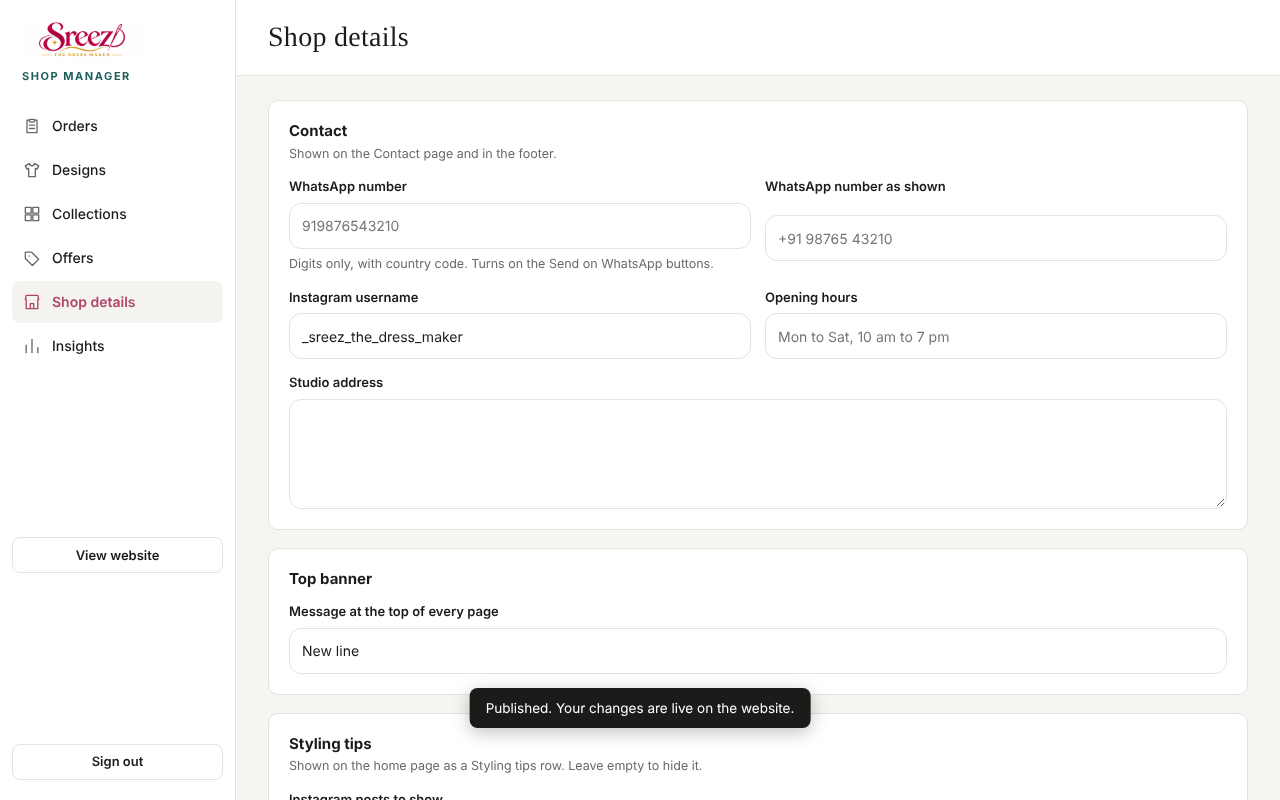
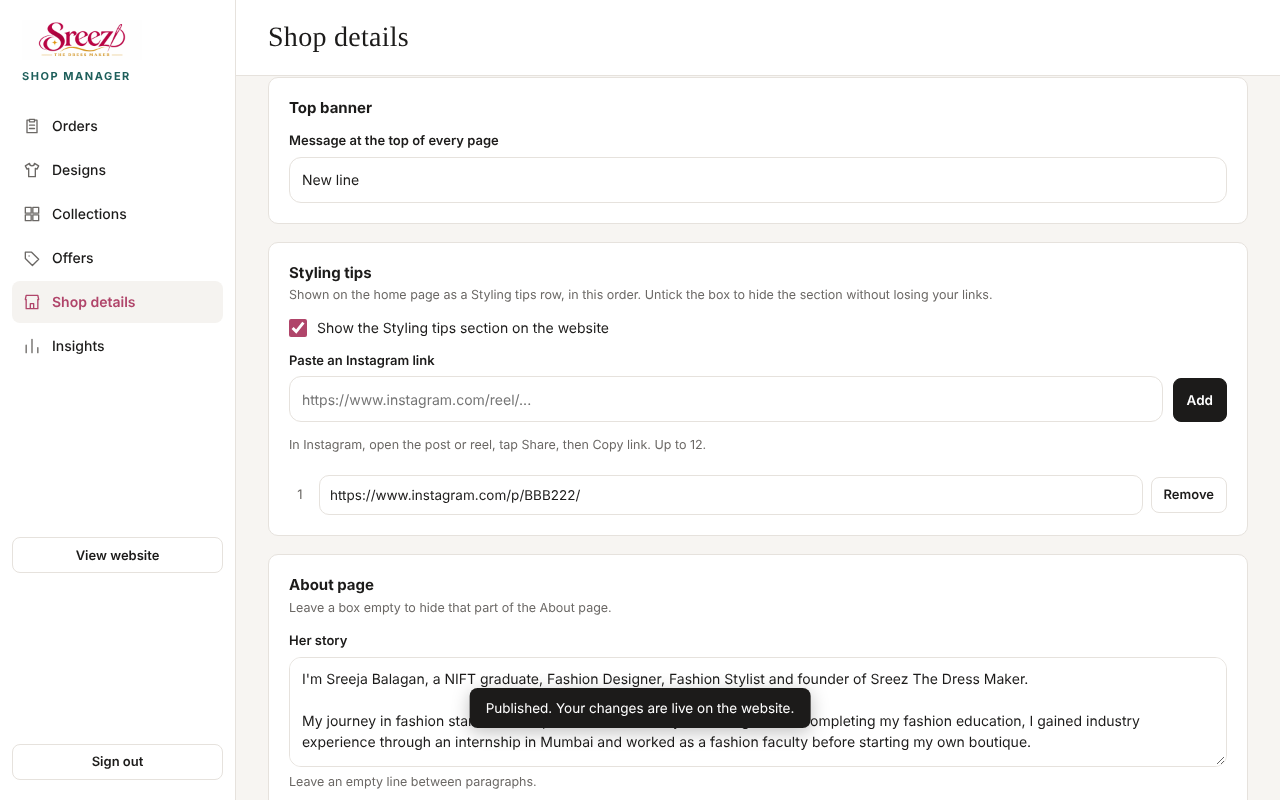
Styling tips: one box per link and an on/off switch
The manager now has a single box to paste an Instagram link with an Add
button, a numbered list with Remove buttons, and a tick box that hides
or shows the section without losing the links.

Claude-Session: https://claude.ai/code/session_016YqyoZpa2w2rLnWAeS1J5m

diff --git a/public/app.js b/public/app.js
@@ -35,7 +35,7 @@ const pcoll=p=>p.c.map(coll).find(Boolean);
 const OFFERS=()=>DATA.offers.filter(o=>o.active!==false);
 /* styling tips: Instagram posts and reels the owner picked, shown with Instagram's own embed player */
 const tipList=()=>(Array.isArray(SITE.tips)?SITE.tips:[]).map(u=>{ const m=String(u).match(/instagram\.com\/(?:[\w.]+\/)?(p|reel|reels|tv)\/([\w-]+)/i); return m?{kind:m[1].toLowerCase()==='p'?'p':'reel',code:m[2]}:null; }).filter(Boolean).slice(0,12);
-const tipsHTML=()=>{ const t=tipList(); if(!t.length) return isAdmin?`<section><div class="head"><h2>Styling tips</h2></div><p class="lede">${todo('to add')} Paste links to your Instagram posts in Manage shop, Shop details, Styling tips.</p></section>`:'';
+const tipsHTML=()=>{ if(SITE.tipsOn===false) return ''; const t=tipList(); if(!t.length) return isAdmin?`<section><div class="head"><h2>Styling tips</h2></div><p class="lede">${todo('to add')} Paste links to your Instagram posts in Manage shop, Shop details, Styling tips.</p></section>`:'';
   return `<section><div class="head"><h2>Styling tips</h2><a href="${igUrl()}" rel="noopener">Follow on Instagram</a></div><p class="lede">Ideas from Sreeja on what to wear and how to style it.</p>
     <div class="prow tips">${t.map(x=>`<div class="tip"><iframe src="https://www.instagram.com/${x.kind}/${x.code}/embed/" title="Styling tip from Sreez on Instagram" loading="lazy" allowtransparency="true" allowfullscreen scrolling="no"></iframe><a href="https://www.instagram.com/${x.kind}/${x.code}/" rel="noopener">Open on Instagram</a></div>`).join('')}</div></section>`; };
 const igUrl=()=>'https://www.instagram.com/'+SITE.ig, igDm=()=>'https://ig.me/m/'+SITE.ig;
@@ -493,7 +493,10 @@ offers(){ const n=DATA.offers.length;
 shop(){ bo=SITE; return {title:'Shop details',body:`
   ${pn('Contact',`<div class="fgrid">${fld('WhatsApp number','wa',{ph:'919876543210',hint:'Digits only, with country code. Turns on the Send on WhatsApp buttons.'})}${fld('WhatsApp number as shown','waShow',{ph:'+91 98765 43210'})}${fld('Instagram username','ig')}${fld('Opening hours','hours',{ph:'Mon to Sat, 10 am to 7 pm'})}${fld('Studio address','address',{area:1})}</div>`,'Shown on the Contact page and in the footer.')}
   ${pn('Top banner',`<div class="fgrid">${fld('Message at the top of every page','announce',{full:1})}</div>`)}
-  ${pn('Styling tips',`<div class="fgrid">${fld('Instagram posts to show','tips',{area:1,t:'lines',ph:'https://www.instagram.com/reel/...',hint:'One link per line, newest first, up to 12. In Instagram, open the post or reel, tap Share, then Copy link.'})}</div>`,'Shown on the home page as a Styling tips row. Leave empty to hide it.')}
+  ${pn('Styling tips',`<label class="check"><input type="checkbox" data-k="tipsOn" data-t="bool"${SITE.tipsOn!==false?' checked':''}>Show the Styling tips section on the website</label>
+    <div class="tipadd"><div class="field"><label for="tipNew">Paste an Instagram link</label><input id="tipNew" inputmode="url" placeholder="https://www.instagram.com/reel/..."></div><button class="btn sm" data-a="tip-add">Add</button></div>
+    <span class="hint">In Instagram, open the post or reel, tap Share, then Copy link. Up to 12.</span>
+    ${(SITE.tips||[]).length?`<div class="tiplist">${SITE.tips.map((u,i)=>`<div class="tiprow"><span class="tipno">${i+1}</span><input data-tip="${i}" value="${esc(u)}" aria-label="Instagram link ${i+1}"><button class="mini" data-a="tip-rm" data-v="${i}">Remove</button></div>`).join('')}</div>`:'<p class="tempty">No posts added yet.</p>'}`,'Shown on the home page as a Styling tips row, in this order. Untick the box to hide the section without losing your links.')}
   ${pn('About page',`<div class="fgrid">${fld('Her story','story',{area:1,hint:'Leave an empty line between paragraphs.'})}${fld('Quote shown under the story','quote',{area:1})}${fld('Specialities','specialities',{area:1,t:'lines',hint:'One speciality per line.'})}${fld('My USP','usp',{area:1})}${fld('My vision','vision',{area:1})}<div class="field"><label>Portrait photo</label>${onePhoto('portrait')}<span class="hint">The large photo on the About and home pages.</span></div><div class="field"><label>Small round photo</label>${onePhoto('avatar')}<span class="hint">Her face, shown beside each design and on the custom order note. Uses the portrait if empty.</span></div></div>`,'Leave a box empty to hide that part of the About page.')}
   ${pn('Ordering',`<div class="fgrid">${fld('Usual stitching time (days)','leadDays',{t:'num',ph:'For example 10',hint:'Shown on every design, in the cart and at checkout. A design can have its own time in Designs.'})}${fld('UPI ID for payments','upi',{ph:'For example name@okhdfcbank',hint:'Turns on the payment step at checkout, with a QR code and a pay button.'})}${fld('Name shown to the payer','upiName',{ph:'Sreez The Dress Maker'})}${fld('Advance to collect (%)','advancePct',{t:'num',ph:'50',hint:'Share of the order total asked at checkout. Use 100 for full payment. Empty means 50.'})}${fld('Payment','payment',{area:1,ph:'Payment methods and advance'})}${fld('Order alert key','notifyKey',{ph:'Access key from web3forms.com',hint:'Emails you each time an order is placed on the website. Get a free access key at web3forms.com with the email that should receive the alerts, and paste it here.'})}${fld('WhatsApp alert number','waAlertTo',{ph:'919876543210',hint:'Digits only, with country code. The WhatsApp number that gets a message for each order.'})}${fld('WhatsApp alert key','waAlertKey',{ph:'Key from CallMeBot',hint:'From that WhatsApp number, message the CallMeBot bot to get a key (steps at callmebot.com), and paste it here.'})}</div>`,'What customers are told when they buy. Payment is asked only when every design in the cart has a price.')}
   ${pn('Help page',`<div class="fgrid">${fld('Size chart','sizeChart',{area:1,ph:'S: bust 34, waist 28, hip 36 ...'})}${fld('Delivery','delivery',{area:1,ph:'Stitching time, shipping areas and charges'})}${fld('Alterations and returns','alterations',{area:1})}</div>`)}
@@ -582,6 +585,12 @@ async function adminAct(a,v,el){
   else if(a==='new-order'){ const o=newOrder(); o.items.push({pid:'',name:'',size:'',price:0}); aEdit={kind:'order',obj:o}; }
   else if(a==='add-item') aEdit.obj.items.push({pid:'',name:'',size:'',price:0});
   else if(a==='rm-item') aEdit.obj.items.splice(+v,1);
+  else if(a==='tip-add'){ const u=$('tipNew').value.trim(); if(!Array.isArray(SITE.tips)) SITE.tips=[];
+    if(!/instagram\.com\/(?:[\w.]+\/)?(p|reel|reels|tv)\/[\w-]+/i.test(u)) return toast('That is not an Instagram post or reel link. Copy the link from the Share menu of the post.');
+    if(SITE.tips.length>=12) return toast('You can show up to 12 posts. Remove one first.');
+    if(SITE.tips.includes(u)) return toast('That post is already in the list.');
+    SITE.tips.unshift(u); markDirty(); }
+  else if(a==='tip-rm'){ SITE.tips.splice(+v,1); markDirty(); }
   else if(a==='save-order'){ if(busy) return; const o=aEdit.obj; if(!o.customer.trim()) return toast('Add the customer name first.'); if(!cap.db) return toast('Orders cannot be saved in this view.');
     o.items=o.items.filter(i=>i.name.trim()); o.items.forEach(i=>{ const p=DATA.products.find(p=>p.name===i.name); i.pid=p?p.id:''; i.price=Number(i.price)||0; });
     o.updatedAt=new Date().toISOString(); const d=Object.assign({},o); delete d.id; busy='ord';
@@ -611,6 +620,7 @@ async function adminAct(a,v,el){
 document.addEventListener('input',e=>{ const el=e.target;
   if(el.dataset.q&&isAdmin){ if(el.dataset.q==='pSearch') pSearch=el.value; else oSearch=el.value; renderAdmin(); const s=$(el.id); if(s){ s.focus(); try{ s.setSelectionRange(s.value.length,s.value.length); }catch(e){} } return; }
   if(!isAdmin||!onManage()) return;
+  if('tip' in el.dataset){ SITE.tips[+el.dataset.tip]=el.value.trim(); markDirty(); return; }
   if(el.dataset.k&&bo){ const t=el.dataset.t; bo[el.dataset.k]=t==='bool'?el.checked:t==='lines'?el.value.split('\n').map(x=>x.trim()).filter(Boolean):t==='num'?(el.value.trim()===''?null:(Number(el.value.replace(/[^\d.]/g,''))||0)):el.value;
     if(el.dataset.k==='wa') bo.wa=el.value.replace(/\D/g,'');
     if(aEdit&&aEdit.kind==='order') oSum(); else { markDirty(); const pv=$('pPrev'); if(pv&&aEdit) pv.innerHTML=priceHTML(aEdit.obj); } }

diff --git a/tools/t.js b/tools/t.js
@@ -67,6 +67,15 @@ const FAKE=`window.firebase=(function(){
     ok(await pg.evaluate(()=>window.__st.docs['orders/w1'].no)===1,w+' order numbered');
     for(const t of ['products','collections','offers','shop','insights','orders']){ await pg.click(`.mgtab[data-v="${t}"]`); await pg.waitForTimeout(150); }
     await pg.click('.mgtab[data-v="shop"]'); await pg.waitForTimeout(200);
+    await pg.uncheck('[data-k="tipsOn"]'); ok(await pg.evaluate(()=>SITE.tipsOn)===false,w+' tips switch off'); await pg.check('[data-k="tipsOn"]'); ok(await pg.evaluate(()=>SITE.tipsOn)===true,w+' tips switch on');
+    await pg.fill('#tipNew','hello'); await pg.click('[data-a="tip-add"]'); await pg.waitForTimeout(150);
+    ok(await pg.locator('.tiprow').count()===0,w+' bad tip link refused');
+    await pg.fill('#tipNew','https://www.instagram.com/reel/AAA111/'); await pg.click('[data-a="tip-add"]'); await pg.waitForTimeout(150);
+    await pg.fill('#tipNew','https://www.instagram.com/p/BBB222/'); await pg.click('[data-a="tip-add"]'); await pg.waitForTimeout(150);
+    ok(await pg.locator('.tiprow').count()===2&&await pg.inputValue('[data-tip="0"]')==='https://www.instagram.com/p/BBB222/',w+' tips added, newest first');
+    await pg.locator('.tiplist').scrollIntoViewIfNeeded(); await pg.screenshot({path:'/tmp/claude-0/-home-user/f6d5a27d-639e-5c8e-8f0d-89ddb1cbc0c9/scratchpad/tipmg'+w+'.png'});
+    await pg.click('[data-a="tip-rm"][data-v="1"]'); await pg.waitForTimeout(150);
+    ok(JSON.stringify(await pg.evaluate(()=>SITE.tips))==='["https://www.instagram.com/p/BBB222/"]',w+' tip removed');
     await pg.fill('[data-k="announce"]','New line'); await pg.waitForTimeout(100);
     await pg.locator('[data-k="announce"]').dispatchEvent('change'); await pg.waitForTimeout(600);
     ok(await pg.locator('#pubBar').isVisible(),w+' publish bar');

diff --git a/tools/t-tips.js b/tools/t-tips.js
@@ -17,6 +17,7 @@ const {chromium}=require('playwright');
     ok(JSON.stringify(srcs)===JSON.stringify(['https://www.instagram.com/reel/DAbc_12-x/embed/','https://www.instagram.com/p/CxYz123/embed/','https://www.instagram.com/reel/Dzz9/embed/']),w+' embeds '+srcs.join(' '));
     const over=await pg.evaluate(()=>document.documentElement.scrollWidth-innerWidth); ok(over<=1,w+' no overflow '+over);
     await pg.locator('.tips').scrollIntoViewIfNeeded(); await pg.waitForTimeout(300); await pg.screenshot({path:'/tmp/claude-0/-home-user/f6d5a27d-639e-5c8e-8f0d-89ddb1cbc0c9/scratchpad/tips'+w+'.png'});
+    cat.site.tipsOn=false; await pg.reload(); await pg.waitForTimeout(700); ok(await pg.locator('.tips').count()===0,w+' hidden when switched off');
     ok(errs.length===0,w+' no page errors '+errs.join('|'));
     await ctx.close();
   }

diff --git a/public/style.css b/public/style.css
@@ -520,3 +520,11 @@ select.tin{max-width:44vw}
 .tip{flex:0 0 min(326px,84vw);scroll-snap-align:start;display:grid;gap:6px}
 .tip iframe{width:100%;height:560px;border:1px solid var(--line);border-radius:var(--radius);background:var(--surface)}
 .tip a{font-size:13px;color:var(--muted);text-align:center}
+
+/* manager: styling tips links */
+.tipadd{display:grid;grid-template-columns:1fr auto;gap:10px;align-items:end}
+.tipadd .btn{height:44px}
+.tiplist{display:grid;gap:8px;margin-top:6px}
+.tiprow{display:grid;grid-template-columns:22px 1fr auto;gap:8px;align-items:center}
+.tiprow input{width:100%;min-width:0;height:40px;border-radius:10px;border:1px solid var(--line);background:var(--surface);color:var(--ink);font:inherit;font-size:13.5px;padding:0 10px}
+.tipno{font-size:13px;color:var(--muted);text-align:center}
